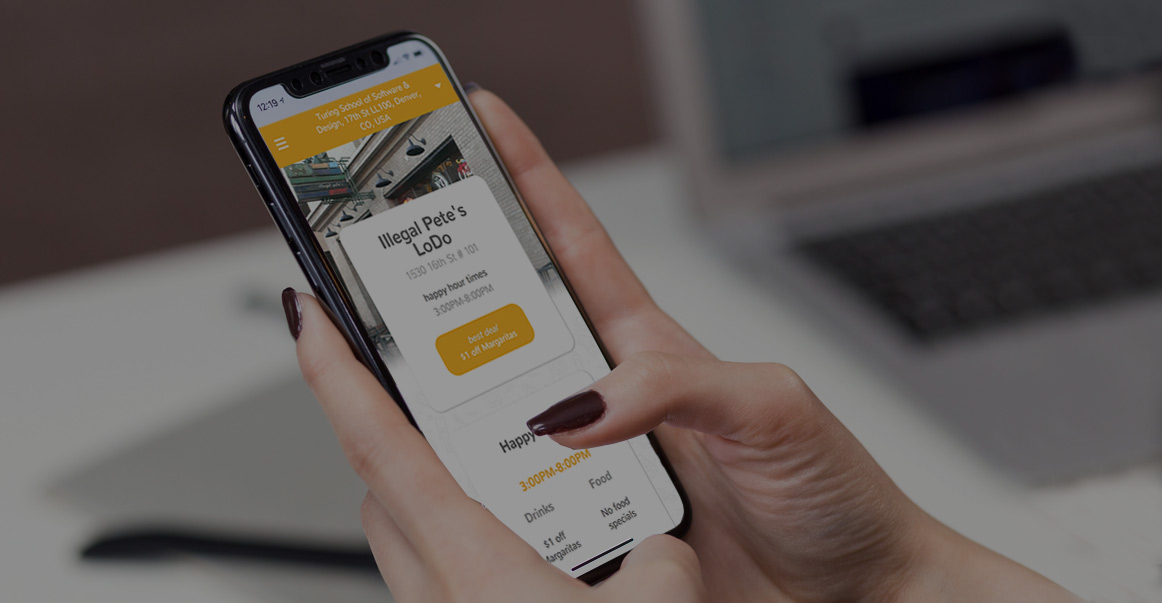
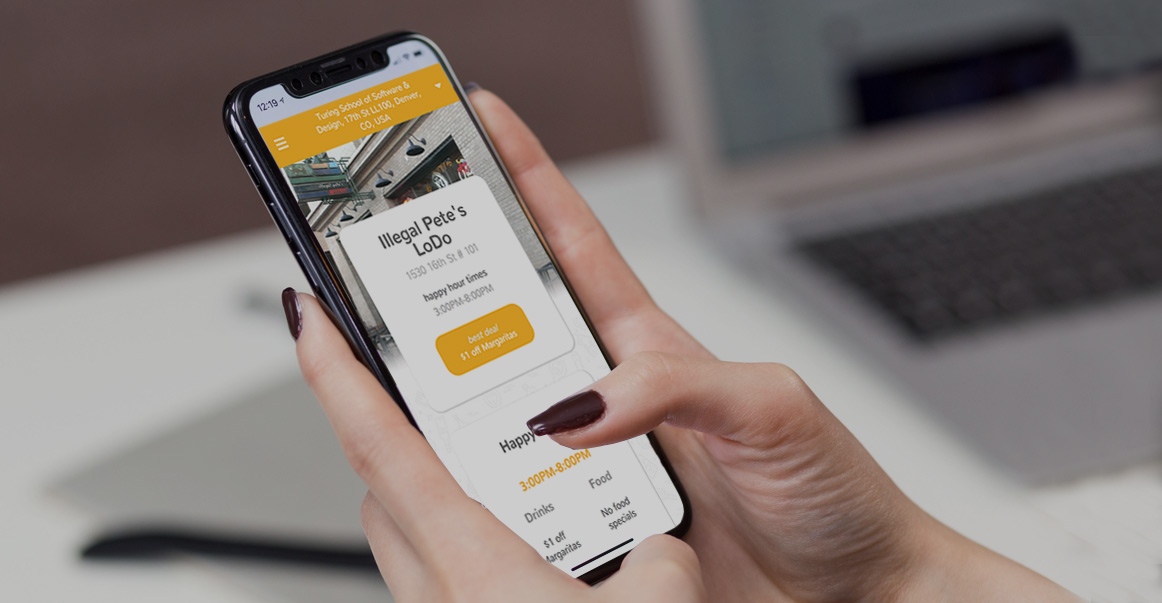
Adjust home info styling and hhh sidebar image

diff --git a/src/components/HeroInfo/HeroInfo.css b/src/components/HeroInfo/HeroInfo.css
@@ -9,17 +9,20 @@
   display: flex;
   justify-content: space-between;
   margin: 0 auto;
+  text-shadow: 1px 1px 1px #666;
 }
 
 .heroInfo h3 {
   font-size: 1rem;
   font-weight: 300;
+  text-shadow: 1px 1px 1px #666;
 }
 
 .heroInfo h4 {
   font-size: 3rem;
   font-weight: 700;
   margin: 0;
+  text-shadow: 1px 1px 1px #666;
   padding: 0;
 }
 
@@ -27,6 +30,7 @@
   font-size: 4rem;
   width: 100%;
   display: flex;
+  text-shadow: 1px 1px 1px #666;
   align-items: flex-end;
 }
 
@@ -35,6 +39,7 @@
   margin-left: 130px;
   font-weight: 300;
   position: absolute;
+  text-shadow: 1px 1px 1px #666;
   margin-top: -40px !important;
   
 }

diff --git a/src/components/ProjectInfo/ProjectInfo.js b/src/components/ProjectInfo/ProjectInfo.js
@@ -2,6 +2,7 @@ import React, { Component } from 'react';
 import { connect } from 'react-redux';
 import './ProjectInfo.css';
 import evoLiteSide from './images/evo-lite-side.jpg';
+import happyHeroSide from './images/happy-hour-hero-side.jpg';
 
 class ProjectInfo extends Component {
   render() {
@@ -25,6 +26,9 @@ class ProjectInfo extends Component {
       switch (company) {
         case 'Evo-Lite':
           sideImg = evoLiteSide
+          break;
+        case 'Happy Hour Hero':
+          sideImg = happyHeroSide
           break;
         default:
           null

diff --git a/src/components/Nav/Nav.css b/src/components/Nav/Nav.css
@@ -6,7 +6,7 @@
   color: #fff;
   font-family: 'Nunito', sans-serif;
   font-weight: 700;
-  height: 70px;
+  height: 80px;
   align-items: center;
   line-height: 1rem;
   font-size: 0.9rem;

diff --git a/src/components/HeroNav/HeroNav.css b/src/components/HeroNav/HeroNav.css
@@ -90,7 +90,7 @@
 
 .heroNav div {
   width: 20%;
-  margin-top: 15px;
+  margin-top: 30px;
 }
 
 .heroNavLink:hover {
